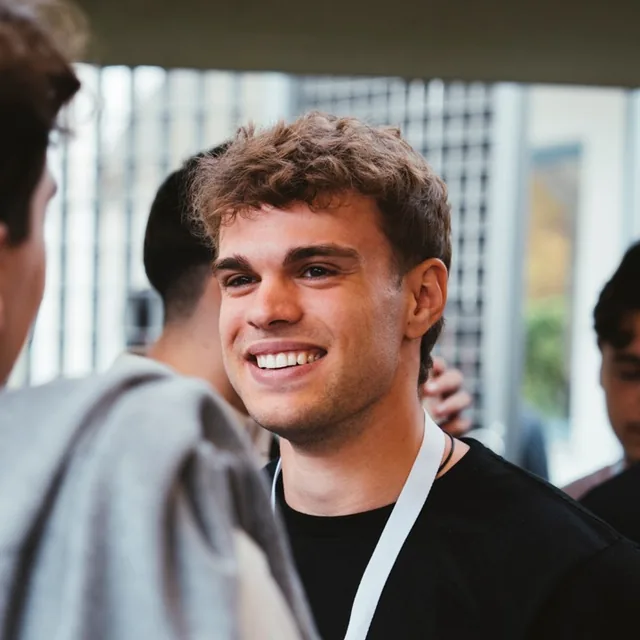
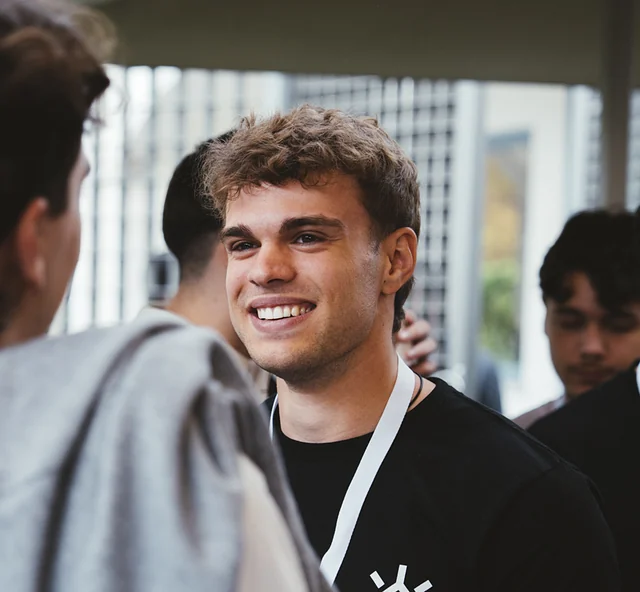
Regenerate profile photo from the photographer's export
Crop 860x796 at native resolution (no upscaling) to match the 1.08
portrait frame, replacing the upscaled 800px version. The social
preview profile.jpg is an 860px square from the same source.

diff --git a/index.html b/index.html
@@ -208,15 +208,15 @@
           </div>
           <div class="portrait-window">
             <img
-              src="assets/img/profile-800.webp"
+              src="assets/img/profile-860.webp"
               srcset="
                 assets/img/profile-640.webp 640w,
-                assets/img/profile-800.webp 800w
+                assets/img/profile-860.webp 860w
               "
               sizes="(max-width: 600px) calc(100vw - 60px), (max-width: 900px) 430px, (max-width: 1100px) 38vw, 480px"
               alt="Javier González Casares at a professional event"
-              width="800"
-              height="741"
+              width="860"
+              height="796"
               fetchpriority="high"
             />
             <div class="inspection-quote" id="inspection-quote" hidden="">
